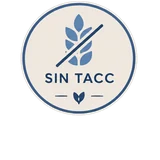
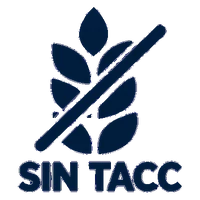
Sellos nuevos: el simbolo solo en la tarjeta, el sello con la palabra en la ficha, y los filtros dentro del menu de Categorias

diff --git a/index.html b/index.html
@@ -683,6 +683,38 @@ textarea.co-input{resize:vertical;min-height:60px;font-family:inherit}
   letter-spacing:.16em;text-transform:uppercase;color:var(--azul-mid);margin-bottom:3px}
 .catalog-intro--marca .marca-sub{margin:4px 0 0;font-size:14.5px;color:var(--muted-fg)}
 
+/* ── Los sellos, al final del menú de categorías ── */
+.cats-dd-sellos{padding:4px 16px 18px}
+.cats-dd-sellos:empty{display:none}
+.cdds-tit{margin:14px 0 10px;padding-top:14px;border-top:1px solid var(--border);
+  font:800 11.5px/1 'Montserrat',sans-serif;letter-spacing:.12em;text-transform:uppercase;
+  color:var(--muted-fg)}
+.cdds-fila{display:flex;flex-wrap:wrap;gap:8px}
+.cdds-chip{display:inline-flex;align-items:center;gap:7px;padding:8px 13px 8px 9px;
+  border:1.5px solid var(--border);border-radius:999px;background:var(--card);
+  color:var(--fg);font:600 13.5px/1 'Montserrat',sans-serif;cursor:pointer;min-height:42px;
+  transition:background .15s,border-color .15s,color .15s}
+.cdds-chip img{width:21px;height:21px;flex:0 0 auto;object-fit:contain}
+.cdds-chip b{font-weight:800;opacity:.45;font-size:12.5px}
+.cdds-chip:hover{border-color:var(--azul-mid)}
+.cdds-chip.on{background:var(--azul);border-color:var(--azul);color:#fff}
+.cdds-chip.on b{opacity:.8}
+.cdds-limpiar{border-style:dashed;color:var(--muted-fg)}
+.cdds-limpiar:hover{border-color:var(--destructive);color:var(--destructive)}
+
+/* ── El aviso de que hay un sello puesto, arriba del listado ── */
+.aviso-sello{display:flex;align-items:center;gap:10px;flex-wrap:wrap;margin:0 0 16px;
+  padding:9px 14px;border-radius:12px;background:var(--min-sky);border:1px solid var(--azul-light);
+  color:var(--min-blue-deep)}
+.aviso-sello img{width:26px;height:26px;flex:0 0 auto;object-fit:contain}
+.aviso-sello span{font-size:14.5px}
+.aviso-sello b{font-weight:800}
+.aviso-sello button{margin-left:auto;padding:7px 14px;border:1.5px solid var(--azul-mid);
+  border-radius:999px;background:var(--card);color:var(--azul-dark);
+  font:700 13px/1 'Montserrat',sans-serif;cursor:pointer;min-height:38px}
+.aviso-sello button:hover{background:var(--azul);border-color:var(--azul);color:#fff}
+@media(max-width:480px){ .aviso-sello button{margin-left:0;width:100%} }
+
 /* ── Fila de filtros por sello ──
    Debajo del título de la categoría, porque no son categorías: se combinan con la
    que ya tenés puesta. */
@@ -691,7 +723,7 @@ textarea.co-input{resize:vertical;min-height:60px;font-family:inherit}
   border:1.5px solid var(--border);border-radius:999px;
   background:var(--card);color:var(--muted-fg);font:600 13.5px/1 inherit;cursor:pointer;
   min-height:44px;transition:background .15s,border-color .15s,color .15s}
-.chip-sello img{width:30px;height:30px;flex:0 0 auto}
+.chip-sello img{width:22px;height:22px;flex:0 0 auto}
 .chip-sello b{font-weight:800;opacity:.6;margin-left:1px}
 .chip-sello:hover{border-color:var(--azul-mid);color:var(--azul-dark)}
 .chip-sello.on{background:var(--azul);border-color:var(--azul);color:#fff}
@@ -706,31 +738,25 @@ textarea.co-input{resize:vertical;min-height:60px;font-family:inherit}
 }
 
 /* ── Sellos sobre la foto ──
-   Abajo a la izquierda: arriba a la izquierda va el descuento y arriba a la
-   derecha el corazón de favoritos, así que es la única esquina libre. Van en
-   vertical, dos como máximo. A este tamaño no se lee el texto de adentro, pero
-   el símbolo y el color alcanzan; el nombre completo está en la ficha. */
-/* La foto es el ancla. Sin esto los sellos se cuelgan de la tarjeta entera y
-   terminan abajo de todo, debajo del botón de agregar. */
+   Abajo a la izquierda: arriba a la izquierda va el descuento y arriba a la derecha
+   el corazón, así que es la única esquina libre. Los dos símbolos comparten una
+   misma pastilla para leerse como un conjunto. Acá va el símbolo solo: cualquier
+   palabra a este tamaño es ilegible. */
 .pcard-img{position:relative}
-.sellos-foto{position:absolute;bottom:8px;left:8px;z-index:2;display:flex;flex-direction:column;
-  align-items:flex-start;gap:4px;pointer-events:none}
-/* El selector lleva el padre a propósito: `.pcard-img img` le pone width:100% a
-   toda imagen de la foto y le ganaba a `.sello-f`, así que el sello colapsaba. */
-.pcard-img .sellos-foto img.sello-f{width:42px;height:42px;display:block;padding:0;
-  object-fit:contain;filter:drop-shadow(0 1px 4px rgba(20,45,70,.22))}
+.sellos-foto{position:absolute;bottom:8px;left:8px;z-index:2;display:inline-flex;
+  align-items:center;gap:6px;padding:5px 10px;border-radius:999px;
+  background:rgba(255,255,255,.95);border:1px solid rgba(45,84,128,.18);
+  box-shadow:0 1px 6px rgba(20,45,70,.16);pointer-events:none}
+.pcard-img .sellos-foto img.sello-f{width:19px;height:19px;display:block;padding:0;
+  object-fit:contain}
 @media(max-width:767px){
-  .sellos-foto{bottom:6px;left:6px;gap:3px}
-  .pcard-img .sellos-foto img.sello-f{width:34px;height:34px}
+  .sellos-foto{bottom:6px;left:6px;gap:5px;padding:4px 9px}
+  .pcard-img .sellos-foto img.sello-f{width:17px;height:17px}
 }
-/* En la ficha abierta van debajo de la cantidad y la marca, con el nombre escrito
-   al lado del sello: acá hay lugar y es donde el cliente decide. */
-.product-detail-sellos{display:flex;flex-wrap:wrap;gap:8px 16px;margin:11px 0 4px}
-.sello-item{display:inline-flex;align-items:center;gap:8px}
-.sello-item b{font:800 12.5px/1.2 var(--tienda,'Montserrat',sans-serif);letter-spacing:.06em;
-  text-transform:uppercase;color:var(--azul-dark)}
-.product-detail-sellos img.sello-d{width:46px;height:46px;display:block;padding:0;
-  object-fit:contain;flex:0 0 auto}
+/* En la ficha abierta va el sello con la palabra, que ahí sí entra. */
+.product-detail-sellos{display:flex;flex-wrap:wrap;gap:14px;margin:12px 0 4px}
+.product-detail-sellos img.sello-d{width:74px;height:74px;display:block;padding:0;
+  object-fit:contain}
 
 /* ── Productos relacionados, al final de la card abierta ── */
 :root{--pd-aire:18px}   /* el mismo aire lateral que usa la ficha en el celular */
@@ -2838,6 +2864,7 @@ body.min-redesign.hv-home .min-home-hero>picture img{object-fit:cover;object-pos
     <button class="cats-dropdown-close" type="button" onclick="toggleCatsDropdown()" aria-label="Cerrar categorías">×</button>
   </div>
   <div class="cats-dropdown-list" id="catsDropdownGrid"></div>
+  <div class="cats-dd-sellos" id="catsDropdownSellos"></div>
 </div>
 
 <div style="max-width:1100px;margin:0 auto;padding:18px 20px" id="mainContainer" data-hv="1">
@@ -3251,6 +3278,10 @@ const SELLOS_TIENDA=[
   {id:'organico', chip:'Orgánico'},
   {id:'proteico', chip:'Proteico'}
 ];
+/* Dos juegos, cada uno para su lugar:
+   ico-*  → sólo el símbolo, para la tarjeta, donde no entra ninguna palabra.
+   sello-*→ el símbolo con la palabra debajo, para la ficha y los filtros. */
+const _selloIco=(id)=>'ico-'+id+'.webp';
 const _selloImg=(id,chico)=>'sello-'+id+(chico?'-ch':'')+'.webp';
 function _sellosDe(p){
   const s=p[12]&&p[12].sellos;
@@ -3261,9 +3292,11 @@ function _sellosHTML(p){
   const l=_sellosDe(p);
   if(!l.length)return'';
   // Dos como máximo en la tarjeta: con tres ya tapan la foto.
-  return '<div class="sellos-foto">'+l.slice(0,2).map(x=>
-    '<img class="sello-f" src="'+_selloImg(x.id,true)+'" alt="'+x.chip+'" title="'+x.chip+'" loading="lazy" decoding="async">'
-  ).join('')+'</div>';
+  // Los dos juntos en una pastilla: sueltos se leían como dos cosas distintas y
+  // ocupaban el doble de alto.
+  return '<div class="sellos-foto" title="'+l.slice(0,2).map(x=>x.chip).join(' · ')+'">'+
+    l.slice(0,2).map(x=>'<img class="sello-f" src="'+_selloIco(x.id)+'" alt="'+x.chip+'" loading="lazy" decoding="async">').join('')+
+    '</div>';
 }
 
 /* ── NOMBRE, CANTIDAD Y MARCA ─────────────────────────────────────────────────
@@ -3358,7 +3391,7 @@ function openProductDetail(pid){
     <button class="product-detail-close" type="button" onclick="closeProductDetail()" aria-label="Cerrar">×</button>
   </div><div class="product-detail-shell"><div class="product-detail-main">
     <div class="product-detail-image" style="background:${fondo}">${src?`<img src="${src}" alt="${p[2]}" decoding="async">`:'<span class="product-image-placeholder" aria-hidden="true"></span>'}</div>
-    <div class="product-detail-copy"><div class="product-detail-category">${cat?cat.n:'Paladear'}</div><h2 class="product-detail-title">${_tc(p[2])}</h2>${(_envaseDe(p)||_marcaDe(p))&&p[3]!=='Granel'?`<div class="product-detail-meta">${_envaseDe(p)?`<span class="nom-c">${_envaseDe(p)}</span>`:''}${_marcaDe(p)?`<button type="button" class="nom-m nom-m-link" onclick="verMarca('${_marcaDe(p).replace(/'/g,"\\'")}',${p[0]})" title="Ver todo de ${_marcaDe(p)}">${_marcaDe(p)}</button>`:''}</div>`:''}${_sellosDe(p).length?`<div class="product-detail-sellos">${_sellosDe(p).map(x=>'<span class="sello-item"><img class="sello-d" src="'+_selloImg(x.id)+'" alt="" decoding="async"><b>'+x.chip+'</b></span>').join('')}</div>`:''}<div class="product-detail-info">${info}</div>
+    <div class="product-detail-copy"><div class="product-detail-category">${cat?cat.n:'Paladear'}</div><h2 class="product-detail-title">${_tc(p[2])}</h2>${(_envaseDe(p)||_marcaDe(p))&&p[3]!=='Granel'?`<div class="product-detail-meta">${_envaseDe(p)?`<span class="nom-c">${_envaseDe(p)}</span>`:''}${_marcaDe(p)?`<button type="button" class="nom-m nom-m-link" onclick="verMarca('${_marcaDe(p).replace(/'/g,"\\'")}',${p[0]})" title="Ver todo de ${_marcaDe(p)}">${_marcaDe(p)}</button>`:''}</div>`:''}${_sellosDe(p).length?`<div class="product-detail-sellos">${_sellosDe(p).map(x=>'<img class="sello-d" src="'+_selloImg(x.id)+'" alt="'+x.chip+'" title="'+x.chip+'" decoding="async">').join('')}</div>`:''}<div class="product-detail-info">${info}</div>
       <div class="product-detail-buy" id="productDetailCard" data-pid="${p[0]}" data-opt="${opt}">
         ${opts.length>1?`<h3>Elegí la presentación</h3><div class="product-detail-options opt-btns${opts.length>=4?' opt-btns-4':''}">${opciones}</div>`:''}${saboresHTML}
         <div class="prices"><div><span class="price-label">Precio${oferta>0?' (Oferta)':''}</span><div class="price-min">${_priceMinContent(p[7][opt][0],oferta)}</div></div><div><span class="price-label">+$80.000</span><div class="price-may">$${fmt(p[7][opt][1])}</div></div></div>
@@ -3668,6 +3701,18 @@ function volverInicio(){
    se puede pedir "aceites y además sin TACC". */
 let SELLO_ACTIVO=null;
 
+/* Cuando hay un sello puesto se avisa arriba del listado, con el botón para
+   sacarlo. Sin esto, el filtro se aplica desde un menú que se cerró y no queda
+   rastro de por qué faltan productos. */
+function _avisoSello(){
+  if(!SELLO_ACTIVO)return'';
+  const s=SELLOS_TIENDA.find(x=>x.id===SELLO_ACTIVO);
+  if(!s)return'';
+  return '<div class="aviso-sello"><img src="'+_selloIco(s.id)+'" alt="">'+
+    '<span>Mostrando sólo <b>'+s.chip+'</b></span>'+
+    '<button type="button" onclick="filtrarSello(null)">Quitar</button></div>';
+}
+
 function _filaSellos(prods){
   // Sólo se ofrecen los sellos que de verdad tienen productos acá: un filtro que
   // deja la pantalla vacía es peor que no estar.
@@ -3678,7 +3723,7 @@ function _filaSellos(prods){
   return '<div class="fila-sellos" role="group" aria-label="Filtrar por sello">'+
     hay.map(x=>'<button type="button" class="chip-sello'+(SELLO_ACTIVO===x.id?' on':'')+
       '" onclick="filtrarSello(\''+x.id+'\')">'+
-      '<img src="'+_selloImg(x.id)+'" alt="" loading="lazy" decoding="async">'+
+      '<img src="'+_selloIco(x.id)+'" alt="" loading="lazy" decoding="async">'+
       '<span>'+x.chip+'</span> <b>'+cuenta[x.id]+'</b></button>').join('')+
     (SELLO_ACTIVO?'<button type="button" class="chip-sello chip-limpiar" onclick="filtrarSello(null)">Quitar filtro</button>':'')+
     '</div>';
@@ -3697,7 +3742,10 @@ function renderProdsHTML(cat,prods,prefix,priorityProductId){
       <div><h1>${cat.n}</h1></div>
       <button class="catalog-filter-btn" onclick="toggleCatsDropdown()"><span aria-hidden="true">☰</span> Categorías</button>
     </div>`;
-  h+=_filaSellos(prods);
+  // Los filtros de sello ya no van acá arriba: viven en el menú de Categorías,
+  // que es donde se va a acotar la búsqueda. Lo que sí queda es el aviso de que
+  // hay uno puesto, para poder sacarlo sin abrir el menú.
+  h+=_avisoSello();
   const visibles = SELLO_ACTIVO ? prods.filter(p=>_sellosDe(p).some(x=>x.id===SELLO_ACTIVO)) : prods;
   if(!visibles.length)return h+'<div style="text-align:center;padding:48px 0;color:var(--muted-fg);font-size:17px">No hay productos con ese sello en esta categoría</div>';
   h+='<div class="prod-grid">';
@@ -7121,7 +7169,7 @@ function renderCarruseles(){
       <img class="catalog-intro-ic" src="may-icon-products-bag.png" alt="" aria-hidden="true" loading="eager" decoding="async">
       <button class="catalog-filter-btn" onclick="toggleCatsDropdown()"><span aria-hidden="true">☰</span> Categorías</button>
     </div>
-    ${_filaSellos(PRODS)}
+    ${_avisoSello()}
     <div class="catalog-progressive-sections"></div>
     <div class="catalog-load-sentinel" aria-hidden="true" style="height:1px"></div>`;
     activeArea.setAttribute('aria-busy','true');
@@ -7290,8 +7338,29 @@ window.zoomImg=zoomImg;
 
 // ── CATS DROPDOWN (mobile) ──
 let _catsDropOpen=false;
+/* Los sellos van al final del menú de categorías: no son categorías, pero se usan
+   en el mismo momento —cuando querés acotar lo que ves— y así no ocupan lugar en
+   la pantalla principal. */
+function pintarSellosDelMenu(){
+  const c=document.getElementById('catsDropdownSellos');
+  if(!c)return;
+  const cuenta={};
+  (PRODS||[]).forEach(p=>_sellosDe(p).forEach(x=>{cuenta[x.id]=(cuenta[x.id]||0)+1}));
+  const hay=SELLOS_TIENDA.filter(x=>cuenta[x.id]);
+  if(!hay.length){ c.innerHTML=''; return; }
+  c.innerHTML='<div class="cdds-tit">Filtrar por</div><div class="cdds-fila">'+
+    hay.map(x=>'<button type="button" class="cdds-chip'+(SELLO_ACTIVO===x.id?' on':'')+
+      '" onclick="filtrarSello(\''+x.id+'\');closeCatsDropdown()">'+
+      '<img src="'+_selloIco(x.id)+'" alt="" loading="lazy" decoding="async">'+
+      '<span>'+x.chip+'</span><b>'+cuenta[x.id]+'</b></button>').join('')+
+    (SELLO_ACTIVO?'<button type="button" class="cdds-chip cdds-limpiar" onclick="filtrarSello(null);closeCatsDropdown()">Quitar el filtro</button>':'')+
+    '</div>';
+}
+window.pintarSellosDelMenu=pintarSellosDelMenu;
+
 function toggleCatsDropdown(){
   _catsDropOpen=!_catsDropOpen;
+  if(_catsDropOpen){ try{ pintarSellosDelMenu(); }catch(e){} }   // se está abriendo
   const overlay=document.getElementById('catsDropdownOverlay');
   const panel=document.getElementById('catsDropdownPanel');
   if(_catsDropOpen){
